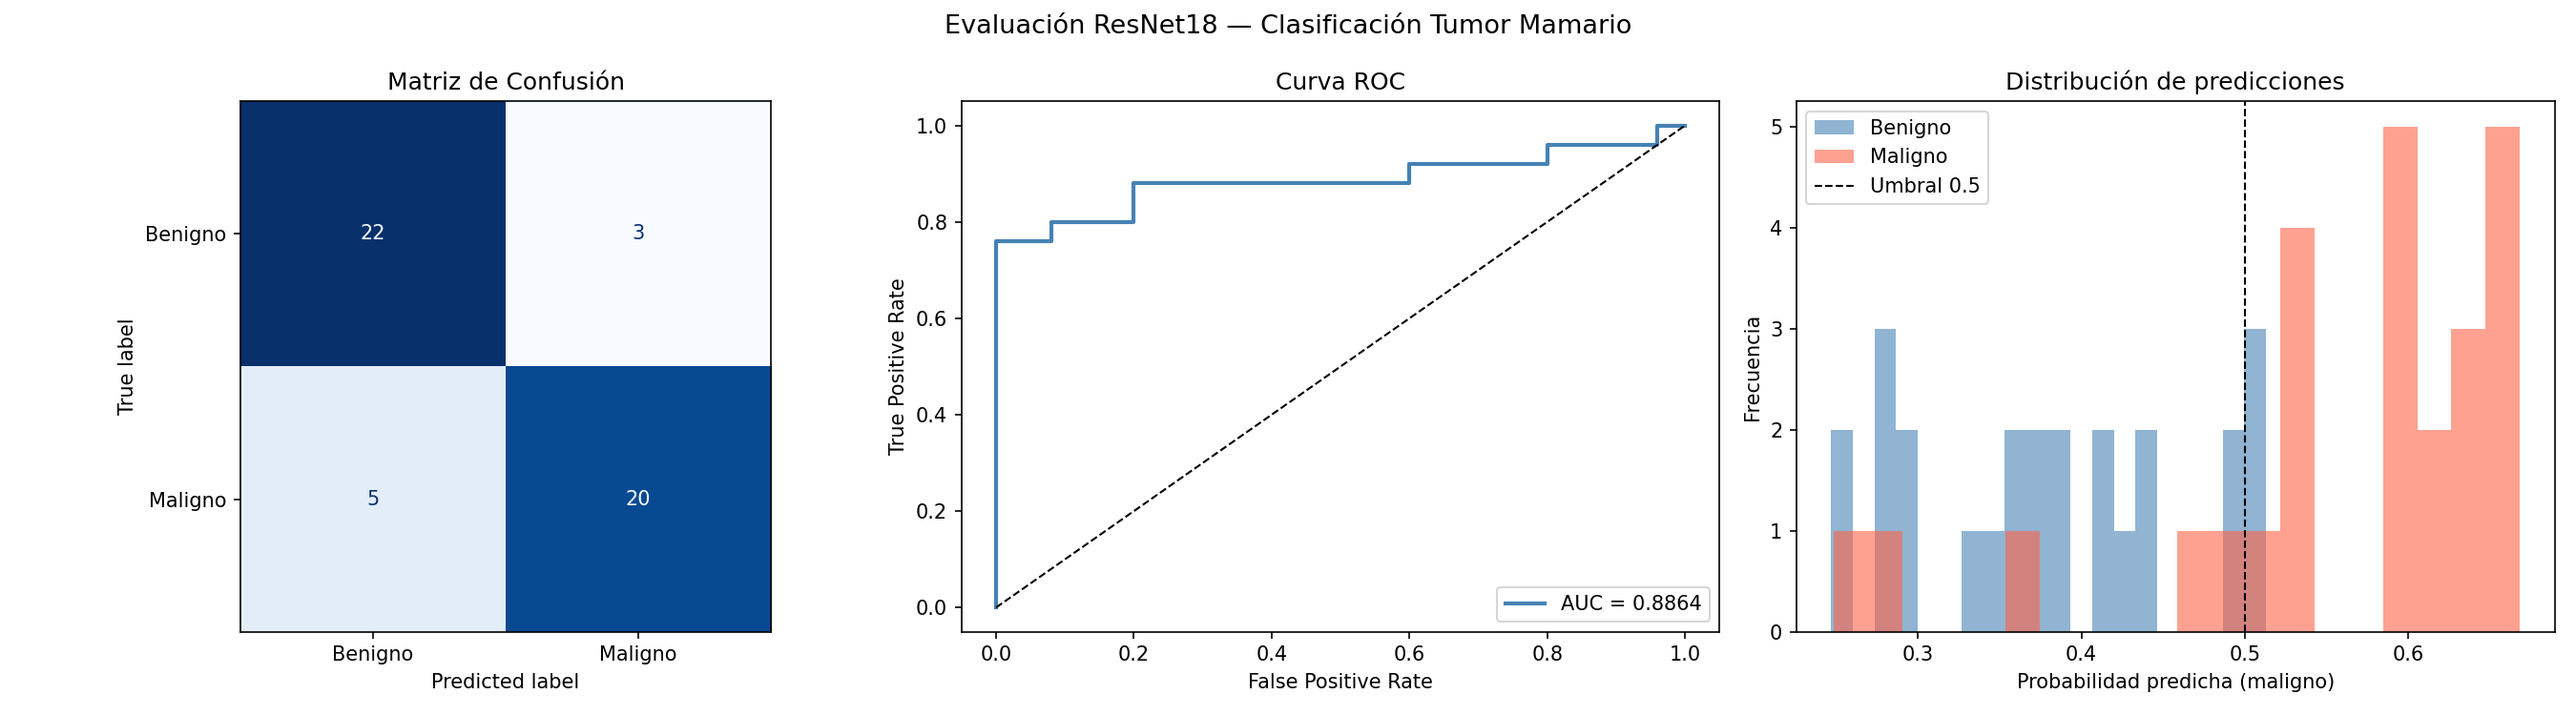
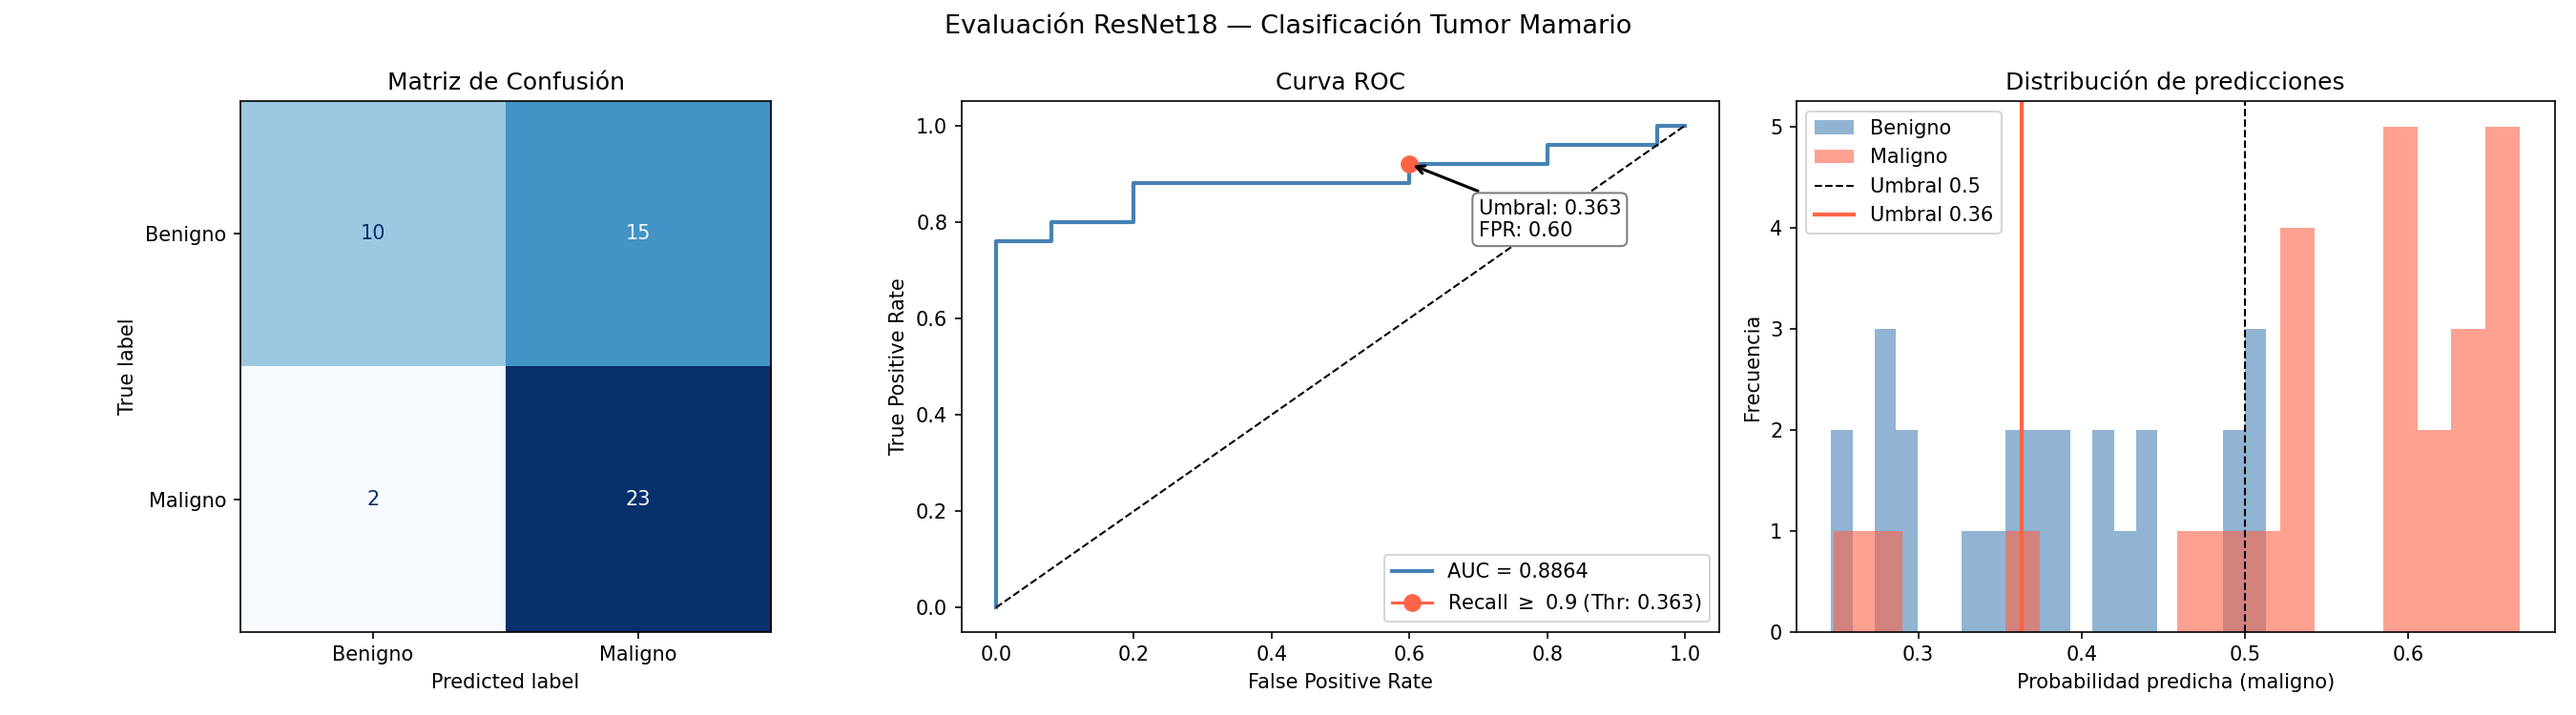
Enhance evaluation function: add optimal threshold calculation for Recall >= 0.90, update ROC curve plotting, and include confusion matrix visualization.

diff --git a/src/test.py b/src/test.py
@@ -46,28 +46,57 @@ def evaluate(trained_model, test_loader: list, device: str = "cuda"):
     # ── Plots ─────────────────────────────────
     fig, axes = plt.subplots(1, 3, figsize=(18, 5))
 
-    # 1. Matriz de confusión
-    cm = confusion_matrix(all_labels, all_preds)
-    disp = ConfusionMatrixDisplay(cm, display_labels=["Benigno", "Maligno"])
-    disp.plot(ax=axes[0], colorbar=False, cmap="Blues")
-    axes[0].set_title("Matriz de Confusión")
+    # 2. Curva ROC (LO PONEMOS PRIMERO PARA SACAR EL UMBRAL)
+    fpr, tpr, thresholds = roc_curve(all_labels, all_probs)
+    
+    # Buscar el umbral óptimo para un Recall >= 0.90
+    target_recall = 0.90
+    
+    # Como los thresholds vienen ordenados de mayor a menor, 
+    # buscamos el primer índice donde el TPR supera 0.90
+    idx_optimo = np.where(tpr >= target_recall)[0][0] 
+    opt_thresh = thresholds[idx_optimo]
+    opt_fpr = fpr[idx_optimo]
+    opt_tpr = tpr[idx_optimo]
 
-    # 2. Curva ROC
-    fpr, tpr, _ = roc_curve(all_labels, all_probs)
-    axes[1].plot(fpr, tpr, color="steelblue", lw=2,
-                 label=f"AUC = {auc:.4f}")
+    all_preds = (all_probs >= opt_thresh).astype(int)
+
+    # Dibujar la curva
+    axes[1].plot(fpr, tpr, color="steelblue", lw=2, label=f"AUC = {auc:.4f}")
     axes[1].plot([0, 1], [0, 1], "k--", lw=1)
+    
+    # Dibujar el punto del umbral
+    axes[1].plot(opt_fpr, opt_tpr, marker='o', color='tomato', markersize=8, 
+                 label=f'Recall $\geq$ 0.9 (Thr: {opt_thresh:.3f})')
+    
+    # Añadir texto explicativo con una flecha apuntando al punto
+    axes[1].annotate(f'Umbral: {opt_thresh:.3f}\nFPR: {opt_fpr:.2f}', 
+                     xy=(opt_fpr, opt_tpr), 
+                     xytext=(opt_fpr + 0.1, opt_tpr - 0.15),
+                     arrowprops=dict(arrowstyle="->", color='black', lw=1.5),
+                     fontsize=10, bbox=dict(boxstyle="round,pad=0.3", fc="white", ec="gray", lw=1))
+
     axes[1].set_xlabel("False Positive Rate")
     axes[1].set_ylabel("True Positive Rate")
     axes[1].set_title("Curva ROC")
     axes[1].legend(loc="lower right")
+
+    # 1. Matriz de confusión (Ahora sí, dibujada)
+    cm = confusion_matrix(all_labels, all_preds)
+    disp = ConfusionMatrixDisplay(cm, display_labels=["Benigno", "Maligno"])
+    disp.plot(ax=axes[0], colorbar=False, cmap="Blues")
+    axes[0].set_title("Matriz de Confusión")
 
     # 3. Distribución de probabilidades predichas
     axes[2].hist(all_probs[all_labels == 0], bins=20, alpha=0.6,
                  color="steelblue", label="Benigno")
     axes[2].hist(all_probs[all_labels == 1], bins=20, alpha=0.6,
                  color="tomato", label="Maligno")
+    
+    # Dibujamos las líneas de los dos umbrales para comparar
     axes[2].axvline(0.5, color="black", linestyle="--", lw=1, label="Umbral 0.5")
+    axes[2].axvline(opt_thresh, color="tomato", linestyle="-", lw=2, label=f"Umbral {opt_thresh:.2f}")
+    
     axes[2].set_xlabel("Probabilidad predicha (maligno)")
     axes[2].set_ylabel("Frecuencia")
     axes[2].set_title("Distribución de predicciones")
